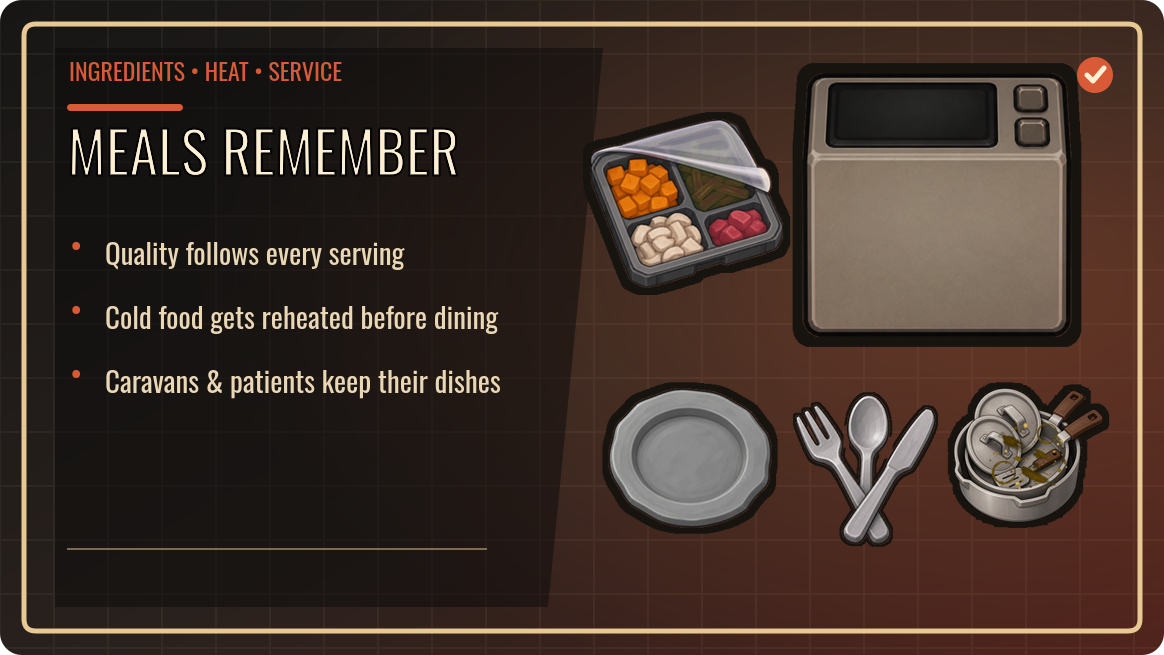
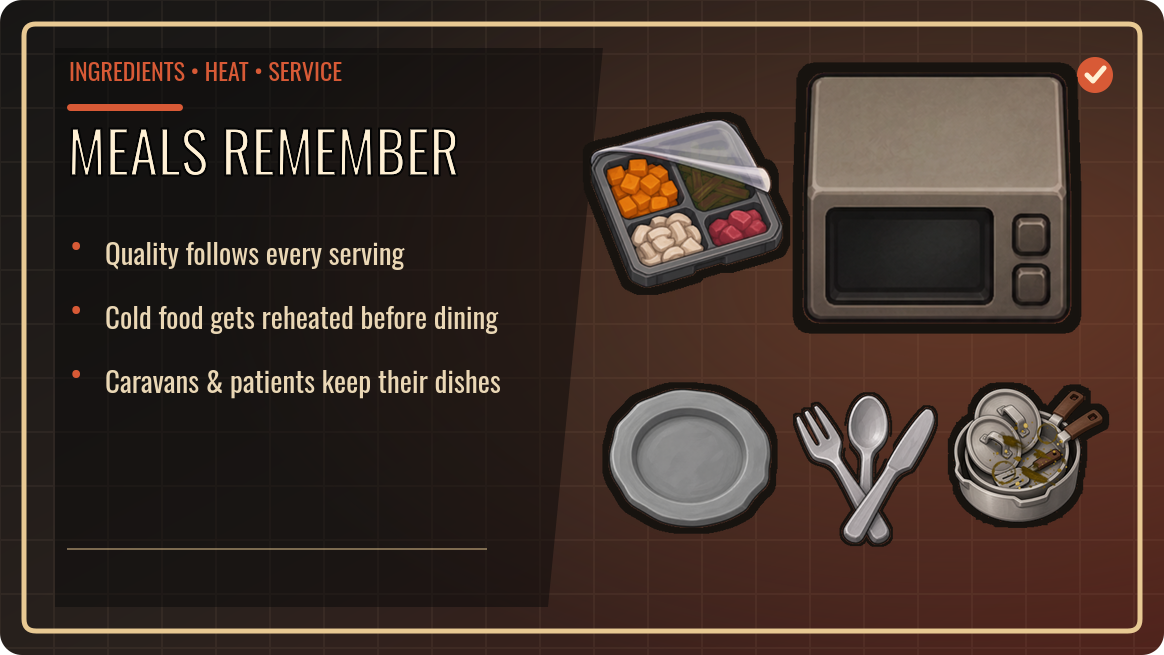
fix(assets): correct microwave cardinal faces

Changed region(s): [[0.6804, 0.0916, 0.9278, 0.5496]]

diff --git a/tests/ImmersiveChefs.Tests/VisualAssetPackageTests.cs b/tests/ImmersiveChefs.Tests/VisualAssetPackageTests.cs
@@ -1133,21 +1133,34 @@ public sealed class VisualAssetPackageTests
             Assert.Multiple(() =>
             {
                 Assert.That((string?)approvedFrames[family + "_north.png"].Attribute("visibleFace"),
-                    Is.EqualTo("interaction-bottom"), family + " north must put its door beside the south interaction cell.");
+                    Is.EqualTo("door-top"), family + " north must expose the reviewed top-facing door.");
                 Assert.That((string?)approvedFrames[family + "_south.png"].Attribute("visibleFace"),
-                    Is.EqualTo("interaction-top"), family + " south must put its door beside the north interaction cell.");
+                    Is.EqualTo("door-bottom"), family + " south must expose the player-facing door at screen bottom.");
                 Assert.That((string?)approvedFrames[family + "_east.png"].Attribute("visibleFace"),
-                    Is.EqualTo("interaction-left"), family + " east must put its door beside the west interaction cell.");
+                    Is.EqualTo("door-right"), family + " east must expose the reviewed right-facing door.");
                 Assert.That((string?)approvedFrames[family + "_west.png"].Attribute("visibleFace"),
-                    Is.EqualTo("interaction-right"), family + " west must put its door beside the east interaction cell.");
+                    Is.EqualTo("door-left"), family + " west must expose the reviewed left-facing door.");
             });
         }
     }
 
     [Test]
-    public void Microwave_door_and_controls_follow_the_rotated_interaction_side_in_real_pixels()
+    public void Microwave_door_and_controls_follow_the_reviewed_cardinal_face_in_real_pixels()
     {
         var root = FindRepositoryRoot();
+        var defPatch = XDocument.Load(Path.Combine(
+            root,
+            "mods",
+            "ImmersiveChefs",
+            "Patches",
+            "Compatibility",
+            "ThermodynamicsHotMeals.xml"));
+        var microwaveDef = defPatch.Descendants("ThingDef")
+            .Single(element => (string?)element.Element("defName") == "ImmersiveChefs_Microwave");
+        Assert.That(
+            (string?)microwaveDef.Element("interactionCellOffset"),
+            Is.EqualTo("(0,0,-1)"),
+            "The visual correction must preserve the published interaction convention and existing-save rotation semantics.");
         var textureRoot = Path.Combine(
             root,
             "mods",
@@ -1169,7 +1182,7 @@ public sealed class VisualAssetPackageTests
                     interactionDarkPixels,
                     Is.GreaterThan(oppositeDarkPixels * 1.35),
                     family + "_" + direction
-                    + " must place its dark door/control landmarks beside its rotated interaction cell, not on the opposite casing.");
+                    + " must place its dark door/control landmarks on the reviewed visible face, not on the opposite casing.");
             }
         }
     }
@@ -2513,10 +2526,10 @@ public sealed class VisualAssetPackageTests
     {
         var (minimumX, maximumX, minimumY, maximumY) = direction switch
         {
-            "north" => (0.15, 0.85, 0.55, 0.92),
-            "south" => (0.15, 0.85, 0.08, 0.45),
-            "east" => (0.08, 0.45, 0.15, 0.85),
-            "west" => (0.55, 0.92, 0.15, 0.85),
+            "north" => (0.15, 0.85, 0.08, 0.45),
+            "south" => (0.15, 0.85, 0.55, 0.92),
+            "east" => (0.55, 0.92, 0.15, 0.85),
+            "west" => (0.08, 0.45, 0.15, 0.85),
             _ => throw new ArgumentOutOfRangeException(nameof(direction), direction, null)
         };
         var count = 0;

diff --git a/tests/ImmersiveChefs.EndToEndTests/BaseBuildingVisualCatalogTests.cs b/tests/ImmersiveChefs.EndToEndTests/BaseBuildingVisualCatalogTests.cs
@@ -427,7 +427,6 @@ public sealed class BaseBuildingVisualCatalogTest : IRimWorldEndToEndTest
                             fixture.Support,
                             MicrowaveSupportRuntime.FindAt(fixture.Support.Position, fixture.Support.Map, placed)),
                         "The " + direction + "-facing microwave must remain visibly supported by its exact table.");
-                    AssertMicrowaveInteractionSide(placed, requestedRotation);
                 });
         }
 
@@ -601,23 +600,6 @@ public sealed class BaseBuildingVisualCatalogTest : IRimWorldEndToEndTest
         }
 
         throw new ArgumentOutOfRangeException(nameof(rotation), rotation, "Only cardinal placement rotations are supported.");
-    }
-
-    private static void AssertMicrowaveInteractionSide(Building microwave, Rot4 rotation)
-    {
-        var occupied = microwave.OccupiedRect();
-        var interaction = microwave.InteractionCell;
-        var correctSide = rotation == Rot4.North
-            ? interaction.z < occupied.minZ
-            : rotation == Rot4.South
-                ? interaction.z > occupied.maxZ
-                : rotation == Rot4.East
-                    ? interaction.x < occupied.minX
-                    : interaction.x > occupied.maxX;
-        EndToEndAssert.True(
-            correctSide,
-            "The " + RotationName(rotation)
-            + " microwave must expose its interaction cell on the same reviewed side as its door and controls.");
     }
 
     private static string VanillaReferenceDefName(string customDefName) => customDefName switch

diff --git a/openspec/changes/specify-immersive-chefs-gameplay/tasks.md b/openspec/changes/specify-immersive-chefs-gameplay/tasks.md
@@ -218,12 +218,12 @@
     - [x] 10.5b.2 In the exact Core/Harmony/Immersive group, render every building Def beside representative vanilla production and dining fixtures in close same-zoom pairs; prove Core-consistent visual style, footprint, authored north/east/south/west views, cross-direction equipment identity, selection brackets, final scale, inspector/build-menu readability, and the fallback microwave on both a real dining table and real production workbench.
   - [x] 10.5c Prove the exact optional-package-absent group resolves every fallback without optional types/textures and the exact Thermodynamics group materializes neither the Immersive Chefs microwave Def nor its art.
 - [x] 10.6 REVIEW: Independently review visual consistency, semantic recognizability, alpha edges, Stuff tinting, directional coverage, packaging, attribution/provenance notes, and screenshot honesty; resolve findings and rerun the visual catalog.
-- [x] 10.7 DIRECTIONAL-PERSPECTIVE CORRECTION: Reject the exact half-turn regression contract; recover or author true fixed-camera cardinal frames for every base and VTEX building family, including the `Rot4.South` workbench view whose interaction cell is north; package-test every cardinal family, independently review the selected art, and personally inspect a focused reviewed-build catalog beside same-facing Core workbenches before accepting the correction.
+- [x] 10.7 DIRECTIONAL-PERSPECTIVE CORRECTION: Reject the exact half-turn regression contract; recover or author true fixed-camera cardinal frames for every base and VTEX building family; package-test every cardinal family, independently review the selected art, and personally inspect a focused reviewed-build catalog beside same-facing Core workbenches before accepting the correction.
   - [x] 10.7a BASELINE: Read-only extract and measure a representative Core 1.6 production-bench set; record exact canvases, Def draw/footprint scale, alpha bounds, centered tabletop projection, screen-south underframe depth, and derived 2x1/3x1 authoring templates without shipping extracted Core art.
   - [x] 10.7b TDD/DEFS: Require the measured 2.5x1.5 and 3.5x1.5 draw canvases, exact directional pixel dimensions, common body projection, clean alpha edges, and reviewed per-direction landmark/hash approvals for every base and VTEX family.
   - [x] 10.7c ASSET: Redraft every north/east/south/west base and VTEX frame against the shared templates; keep the underframe at screen bottom, keep apparent tabletop/underframe proportions constant, and rotate only the equipment/worker-facing layout.
   - [x] 10.7d REVIEW/IN-GAME: Independently review the exact packaged frames, then use native placement to observe north/east/south/west copies beside same-facing Core benches and retain close player-visible evidence that the north-interaction frame no longer reverses camera perspective.
-  - [x] 10.7e MICROWAVE CARDINAL CORRECTION: Pin the compact fallback microwave's door and controls to the actual rotated interaction side in every base/variant frame, keep the fixed camera perspective, and require Workshop art to use the reviewed South-placement view; independently review the exact package, then observe all four rotations on real supports in a reviewed-build native placement catalog before reaccepting 10.7. Evidence: focused host checks `20260813T104407579Z`, independently reviewed current package with no remaining finding, and fresh exact native placement run `20260813T103943010Z`; the acting agent inspected after-action frames 50/52/54/56 and observed North/East/South/West doors facing the corresponding below/left/above/right interaction circles on real table supports.
+  - [x] 10.7e MICROWAVE CARDINAL CORRECTION: Pin the compact fallback microwave's door and controls to truthful distinct cardinal faces in every base/variant frame, make South face the fixed camera as the player-facing Workshop view, and preserve the published interaction offset/save rotation semantics; independently review the exact package, then observe all four rotations on real supports in a reviewed-build native placement catalog before reaccepting 10.7. Focused package tests passed 28/28, independent final review found no P1/P2, and exact reviewed-build native run `MicrowaveCardinalsReviewed/20260813T110649663Z` passed all four player designator placements on real tables with clean logs and cleanup. The acting agent inspected exact after-action frames `000050`, `000052`, `000054`, and `000056`: the South frame visibly presents its dark door/control face at the fixed-camera lower edge, North presents the opposite face, and East/West remain distinct without changing the published interaction offset.
 
 ## 11. mods/ImmersiveChefs - Playtest corrections and preview
 

diff --git a/openspec/changes/specify-immersive-chefs-gameplay/specs/visual-assets/spec.md b/openspec/changes/specify-immersive-chefs-gameplay/specs/visual-assets/spec.md
@@ -9,7 +9,7 @@ Primitive stone cookware SHALL use its own selected silhouette rather than tinti
 
 When its fallback Def is active, the microwave artwork SHALL depict only a compact countertop appliance with no cabinet, legs, pedestal, full-height base, or baked counter surface. Its draw size and transparent padding SHALL visibly sit on a real table/workbench cell at `BuildingOnTop` without swallowing the support sprite, appearing to float, or obscuring adjacent workbench details and interaction cues. When `Mlie.DThermodynamicsHotMeals` is active, the Immersive Chefs microwave Def SHALL be removed before Def deserialization, its texture SHALL never be resolved or rendered, and Thermodynamics' own `DMicrowave` art remains untouched.
 
-The fallback microwave's four cardinal sprites SHALL preserve the fixed RimWorld camera rather than rotate one raster. Its front door and controls SHALL face the Def's rotated interaction cell: screen-bottom for `North`, screen-top for `South`, screen-left for `East`, and screen-right for `West`. Workshop art that depicts the fallback microwave SHALL use the reviewed `South` frame and preserve its screen-top interaction-side front rather than presenting a front elevation toward the camera.
+The fallback microwave's four cardinal sprites SHALL preserve the fixed RimWorld camera rather than rotate one raster. Its front door and controls SHALL have distinct cardinal faces: screen-top for `North`, screen-bottom for `South`, screen-right for `East`, and screen-left for `West`. The visual correction SHALL preserve the published Def interaction offset and saved rotation semantics. Workshop art that depicts the fallback microwave SHALL use the reviewed `South` frame, whose door faces the fixed camera.
 
 #### Scenario: Countertop microwave is rendered on two supports
 - **WHEN** the real Immersive Chefs fallback microwave Def is rendered on one dining-table cell and one production-workbench cell

diff --git a/.agents/skills/rimworld-asset-generation/references/verification.md b/.agents/skills/rimworld-asset-generation/references/verification.md
@@ -34,9 +34,10 @@ On the independently reviewed Release package:
 4. For a cardinal building, place north/east/south/west copies beside same-facing Core workbenches.
 5. Capture before placement, the player action, and close after views at one comparable zoom.
 6. Select each result and inspect the actual texture/material state. Explicitly inspect the
-   north-interaction (`Rot4.South`) view for a screen-bottom underframe and interaction-facing
-   doors/controls on the screen-top edge. The fixed camera and the rotated interaction side are
-   separate contracts.
+   `Rot4.South` view for a screen-bottom underframe and player-facing doors/controls on the
+   screen-bottom edge. The fixed camera, visible appliance face, and native interaction side are
+   separate contracts: verify each from the authored Def and observed player workflow, and do not
+   silently change an already-published interaction offset merely to match a redrawn front face.
    Frame multiple comparison objects through the camera first, then select only the target whose
    single-Thing inspect panel is evidence; a multi-selection screenshot does not show that panel.
 7. For Stuff masks, observe wood/stone/metal or other materially distinct Things; verify fixed
